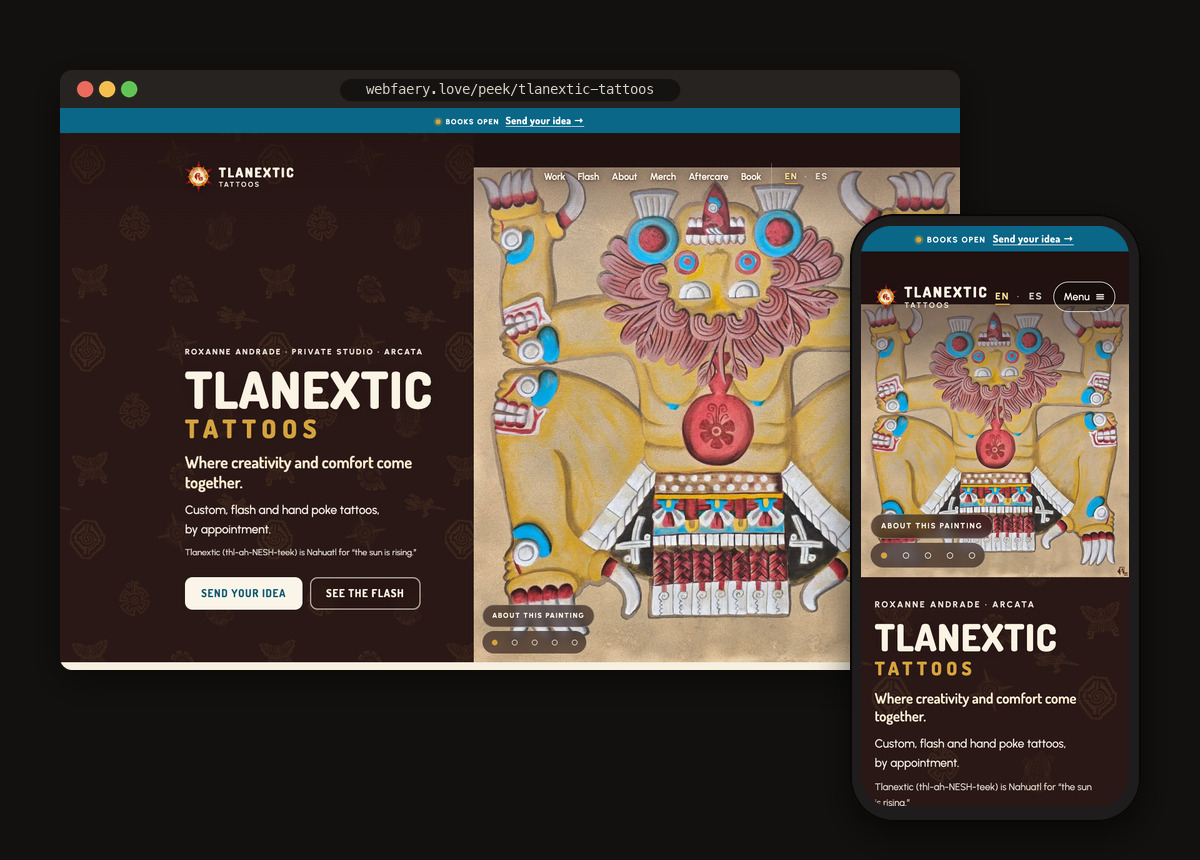
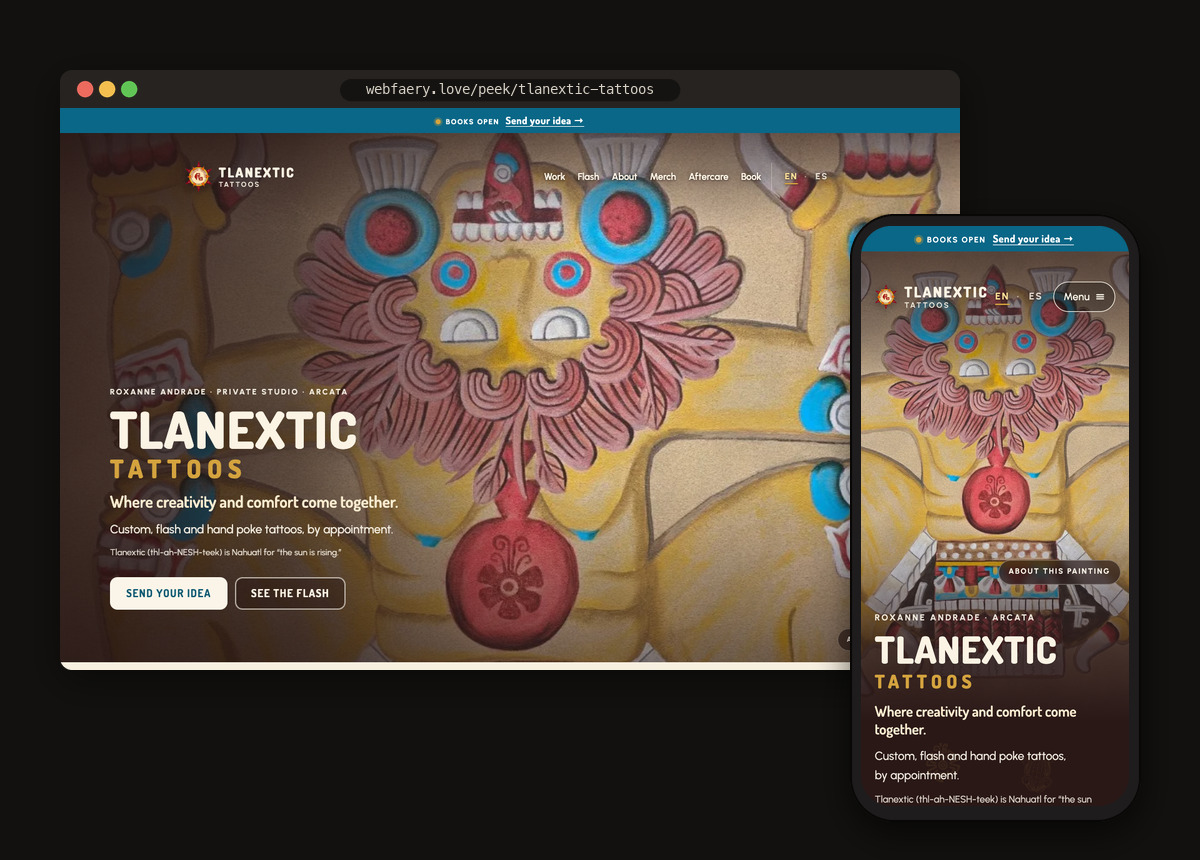
Tlanextic: painting fills the hero, rotation removed (Pollen's note)

diff --git a/peek/tlanextic-tattoos/index.html b/peek/tlanextic-tattoos/index.html
@@ -117,7 +117,7 @@
   .btn.quiet { background: transparent; color: var(--teal-deep); }
   .btn.quiet:hover { background: var(--ground-2); }
 
-  /* ---------- HERO: her own photo, drawing beside her Tlaltecuhtli painting ---------- */
+  /* ---------- HERO: her Tlaltecuhtli painting, full screen ---------- */
   header.top { display: flex; justify-content: space-between; align-items: center; gap: 14px; flex-wrap: wrap; padding-block: 44px 0; }
   .mark { display: inline-flex; align-items: center; gap: 10px; text-decoration: none; color: var(--on-band); }
   .mark img { width: 44px; height: auto; filter: drop-shadow(0 2px 6px rgba(0, 0, 0, 0.35)); }
@@ -127,22 +127,19 @@
   nav a { color: var(--on-band); text-decoration: none; padding: 10px 6px; line-height: 24px; font-weight: 600; text-shadow: 0 1px 3px rgba(30, 14, 12, 0.6), 0 0 14px rgba(30, 14, 12, 0.5); }
   nav a:hover { color: #f6dc95; }
 
-  /* HERO: her own tattoos, big, and each new one goes in dot by dot, like a hand poke. Words sit on dark paper printed with her flash */
+  /* HERO: her Tlaltecuhtli painting, full screen and edge to edge (Pollen's note, Oct 8). Her words sit on a soft dark wash over the painting */
   .hero-band { position: relative; overflow: hidden; min-height: 94vh; min-height: 94svh; display: flex; flex-direction: column; background: #2a1817; color: var(--on-band); }
   .hero-band > .gutter { position: relative; z-index: 3; }
   .hero-band::before { content: ""; position: absolute; inset: 0; z-index: 0; background: rgba(212, 163, 62, 0.1);
     -webkit-mask: url('images/art/pat-flash.webp') 0 0 / 300px 300px repeat; mask: url('images/art/pat-flash.webp') 0 0 / 300px 300px repeat; }
-  .hero-art { position: absolute; z-index: 1; top: 0; right: 0; bottom: 0; width: 54%; margin: 0; background: #1f1211; }
-  .hero-art img { position: absolute; inset: 0; width: 100%; height: 100%; object-fit: cover; object-position: var(--pos, 50% 50%); opacity: 0; }
-  .hero-art img.on { opacity: 1; }
-  @property --dot { syntax: '<length>'; inherits: false; initial-value: 0px; }
-  .hero-art img.poke { z-index: 1; -webkit-mask: radial-gradient(circle, #000 var(--dot), transparent calc(var(--dot) + 0.6px)) 50% 50% / 14px 14px; mask: radial-gradient(circle, #000 var(--dot), transparent calc(var(--dot) + 0.6px)) 50% 50% / 14px 14px; animation: poke-in 1.9s cubic-bezier(.5,0,.3,1) both; }
-  @keyframes poke-in { from { --dot: 0px; } to { --dot: 11px; } }
-  .hero-pick { position: absolute; z-index: 2; left: 14px; bottom: 14px; display: flex; gap: 2px; padding: 3px 4px; border-radius: 999px; background: rgba(34, 18, 16, 0.62); -webkit-backdrop-filter: blur(6px); backdrop-filter: blur(6px); }
-  /* her Tlaltecuhtli painting leads the hero: shown whole (her mark bottom right stays in), on the dark paper */
-  .hero-art img.hero-painting { object-fit: contain; object-position: 50% 100%; background-color: #1f1211; }
-  .hero-cap { position: absolute; z-index: 2; left: 14px; bottom: 56px; display: none; flex-direction: column-reverse; align-items: flex-start; gap: 8px; max-width: min(340px, calc(100% - 28px)); }
-  .hero-art.is-painting .hero-cap { display: flex; }
+  .hero-art { position: absolute; z-index: 1; inset: 0; width: 100%; margin: 0; background: #1f1211; }
+  /* cover, held near the top so her headdress, face and the red disc stay in frame on wide screens */
+  .hero-art img { position: absolute; inset: 0; width: 100%; height: 100%; object-fit: cover; object-position: 50% 9%; }
+  /* the wash: dark at the left and bottom where her name and buttons sit, clear over her face and the disc */
+  .hero-art::after { content: ""; position: absolute; inset: 0; pointer-events: none;
+    background: linear-gradient(90deg, rgba(34, 18, 16, 0.86) 0, rgba(34, 18, 16, 0.66) 26%, rgba(34, 18, 16, 0.2) 46%, rgba(34, 18, 16, 0) 58%),
+                linear-gradient(0deg, rgba(34, 18, 16, 0.55) 0, rgba(34, 18, 16, 0) 34%); }
+  .hero-cap { position: absolute; z-index: 2; right: 18px; bottom: 18px; display: flex; flex-direction: column-reverse; align-items: flex-end; gap: 8px; max-width: min(360px, calc(100% - 36px)); }
   .hero-cap-btn { min-height: 36px; margin: 0; padding: 0 14px; cursor: pointer; font: inherit; font-size: 11px; letter-spacing: 0.16em; text-transform: uppercase; font-weight: 700; color: #fbf5e9; background: rgba(34, 18, 16, 0.62); border: 1px solid rgba(251, 245, 233, 0.35); border-radius: 999px; -webkit-backdrop-filter: blur(6px); backdrop-filter: blur(6px); }
   .hero-cap-btn[aria-expanded="true"] { color: #f6dc95; border-color: #d4a33e; }
   .hero-cap-btn:focus-visible { outline: 2px solid #fbf5e9; outline-offset: 2px; }
@@ -151,24 +148,25 @@
   .hero-cap-txt a { color: #f4d68a; font-weight: 700; }
   .hero-cap-txt { position: relative; }
   .hero-cap-x { display: none; position: absolute; top: 2px; right: 2px; width: 40px; height: 40px; margin: 0; padding: 0; border: 0; background: none; color: #fbf5e9; font-size: 22px; line-height: 1; cursor: pointer; }
-  /* phones: the open caption sits low, over the skirt band, so her face and the red disc stay clear */
+  /* tall tablet screens: the painting runs behind more of the words, so the wash comes up from the bottom too */
+  @media (min-width: 761px) and (max-aspect-ratio: 1/1) {
+    .hero-art::after { background: linear-gradient(90deg, rgba(34, 18, 16, 0.7) 0, rgba(34, 18, 16, 0.3) 45%, rgba(34, 18, 16, 0) 70%), linear-gradient(0deg, rgba(34, 18, 16, 0.88) 0, rgba(34, 18, 16, 0.6) 32%, rgba(34, 18, 16, 0) 58%); }
+  }
+  /* phones: the button sits low on the painting, above her name; the open caption spans the painting with a close button */
   @media (max-width: 760px) {
-    .hero-art.cap-open .hero-pick, .hero-art.cap-open .hero-cap-btn { display: none; }
-    .hero-art.cap-open .hero-cap { left: 10px; right: 10px; bottom: 10px; max-width: none; }
+    .hero-cap { bottom: 198px; right: 12px; max-width: calc(100% - 24px); }  /* just above where her name rises onto the painting, under the red disc */
+    .hero-art.cap-open .hero-cap-btn { display: none; }
+    .hero-art.cap-open .hero-cap { left: 10px; right: 10px; max-width: none; }
     .hero-cap-txt { font-size: 13.5px; line-height: 1.45; padding: 10px 40px 11px 12px; }
     .hero-cap-txt b { font-size: 14px; }
     .hero-cap-x { display: block; }
   }
-  .hero-pick button { display: grid; place-items: center; width: 30px; height: 30px; padding: 0; margin: 0; border: 0; border-radius: 50%; background: none; cursor: pointer; color: #fbf5e9; }
-  .hero-pick button::before { content: ""; width: 9px; height: 9px; border-radius: 50%; border: 1.5px solid currentColor; box-sizing: border-box; }
-  .hero-pick button[aria-pressed="true"]::before { background: #d4a33e; border-color: #d4a33e; }
-  .hero-pick .hp-pause::before { display: none; }
-  .hero-pick button:focus-visible { outline: 2px solid #fbf5e9; outline-offset: -2px; }
   .hero-band::after { content: ""; position: absolute; inset: 0 0 auto; height: 150px; z-index: 2; pointer-events: none; background: linear-gradient(rgba(34, 18, 16, 0.62), rgba(34, 18, 16, 0)); }
   .hero-main { flex: 1; display: flex; align-items: flex-end; padding-block: 40px 84px; }
   .hero-copy { max-width: 600px; }
   @media (min-width: 761px) {
-    .hero-main { width: 46%; box-sizing: border-box; padding-left: max(20px, calc((100% - 1040px) / 2)); padding-right: 34px; }
+    .hero-main { box-sizing: border-box; padding-left: max(28px, calc((100% - 1040px) / 2 - 120px)); padding-right: 24px; }
+    .hero-copy { max-width: min(560px, 44vw); }
     .hero-main > .wrap { margin: 0; }
     .hero-band .hero-copy h1 { font-size: clamp(46px, 5.6vw, 84px); }
   }
@@ -198,7 +196,10 @@
 
   @media (max-width: 760px) {
     .hero-band { min-height: 0; }
-    .hero-art { position: relative; order: -1; left: auto; right: auto; width: 100%; bottom: auto; height: min(calc(100vw + 84px), 78svh); flex: none; }  /* the extra 84px is dark headroom so the sticky nav sits above her painting's headdress */
+    .hero-art { position: relative; order: -1; inset: auto; width: 100%; height: min(175vw, 86svh); flex: none; }  /* a tall band of the painting; her name rises onto its lower edge */
+    .hero-art img { object-position: 50% 30%; }
+    .hero-art::after { background: linear-gradient(0deg, #2a1817 0, rgba(42, 24, 23, 0.82) 16%, rgba(42, 24, 23, 0.35) 30%, rgba(42, 24, 23, 0) 42%); }
+    .hero-main { margin-top: -190px; }
     .hero-band > .gutter:first-of-type { position: absolute; top: 0; left: 0; right: 0; }
     .hero-band::after { height: 200px; background: linear-gradient(rgba(34, 18, 16, 0.72), rgba(34, 18, 16, 0.38) 60%, rgba(34, 18, 16, 0)); }
     .hero-main { padding-block: 30px 52px; }
@@ -785,16 +786,8 @@
 </header>
 </div>
 <div class="hero-band">
-  <figure class="hero-art is-painting" id="hero-art" aria-label="Art by Roxanne">
-    <img class="on hero-painting" src="images/hero-tlaltecuhtli.webp" width="1050" height="1069" alt="Her painting of Tlaltecuhtli, the spirit of the earth: a yellow figure with arms raised, a feathered red face, turquoise ear spools and a red disc at her center" fetchpriority="high">
-    <img data-src="images/w-butterflies.webp" width="1100" height="1100" alt="Two butterflies with small flowers in fine line and pepper shading, down a calf">
-    <img data-src="images/w-hummingbird.webp" width="1074" height="1075" alt="A hummingbird, huitzil, with spread wings under leaves, in black and gray">
-    <img data-src="images/w-cempasuchil.webp" width="1100" height="1098" alt="A cempasuchil held by a skeleton hand, her favorite flower, in black and gray">
-    <img data-src="images/w-eye-hand.webp" width="1100" height="825" alt="A custom hand tattoo with an eye on the back of the hand" style="--pos:50% 40%">
-    <div class="hero-pick" role="group" aria-label="Choose a tattoo">
-      <button type="button" aria-pressed="true" aria-label="Tlaltecuhtli painting"></button><button type="button" aria-pressed="false" aria-label="Butterflies"></button><button type="button" aria-pressed="false" aria-label="Hummingbird"></button><button type="button" aria-pressed="false" aria-label="Cempasuchil"></button><button type="button" aria-pressed="false" aria-label="Eye hand"></button>
-      <button type="button" class="hp-pause" aria-label="Pause the photos" aria-pressed="false"><svg width="12" height="12" viewBox="0 0 12 12" aria-hidden="true" fill="currentColor"><rect class="ic-pause" x="2" y="1.5" width="2.8" height="9" rx="0.8"/><rect class="ic-pause" x="7.2" y="1.5" width="2.8" height="9" rx="0.8"/><path class="ic-play" d="M3 1.5v9l7.5-4.5z" style="display:none"/></svg></button>
-    </div>
+  <figure class="hero-art" id="hero-art" aria-label="Art by Roxanne">
+    <img src="images/hero-tlaltecuhtli.webp" width="1050" height="1069" alt="Her painting of Tlaltecuhtli, the spirit of the earth: a yellow figure with arms raised, a feathered red face, turquoise ear spools and a red disc at her center" fetchpriority="high">
     <div class="hero-cap">
       <button type="button" class="hero-cap-btn" id="hero-cap-btn" aria-expanded="false" aria-controls="hero-cap-txt">About this painting</button>
       <p class="hero-cap-txt" id="hero-cap-txt" hidden><button type="button" class="hero-cap-x" id="hero-cap-x" aria-label="Close">&times;</button><b>Tlaltecuhtli, painting by Roxanne</b> <span>Tlaltecuhtli is the spirit of the earth. In the old story, the gods made the world on her back: her hair became trees, flowers and grasses, and her eyes became wells and springs.</span> <a href="#tlaltecuhtli">Her story</a></p>
@@ -829,42 +822,15 @@
     var im = new Image(); im.onload = go; im.onerror = go; im.src = 'images/hero-tlaltecuhtli.webp'; if (im.complete) go(); setTimeout(go, 1500);
   })();
 
-  /* the hero's tattoos: every 6 seconds the next one goes in dot by dot. Tap a dot to choose one, or pause.
-     Still for people who turn off motion (the dots still switch photos), and only runs while the hero is on screen. */
+  /* "About this painting": opens and closes her caption over the hero */
   (function () {
-    var art = document.getElementById('hero-art'); if (!art) return;
-    var imgs = [].slice.call(art.querySelectorAll('img')), pick = [].slice.call(art.querySelectorAll('.hero-pick button:not(.hp-pause)')), pause = art.querySelector('.hp-pause');
-    var still = window.matchMedia && window.matchMedia('(prefers-reduced-motion: reduce)').matches, i = 0, paused = still, onScreen = true, t = null;
-    function load() { imgs.forEach(function (im) { if (im.dataset.src) { im.src = im.dataset.src; im.removeAttribute('data-src'); } }); }
-    if (document.readyState === 'complete') setTimeout(load, 600); else window.addEventListener('load', function () { setTimeout(load, 600); });
-    function show(n) {
-      if (n === i) return; var prev = imgs[i], next = imgs[n];
-      if (next.dataset.src) load();
-      i = n; pick.forEach(function (b, k) { b.setAttribute('aria-pressed', k === n ? 'true' : 'false'); });
-      art.classList.toggle('is-painting', n === 0); if (n !== 0) capOpen(false);
-      imgs.forEach(function (im) { im.classList.remove('poke'); if (im !== prev) im.classList.remove('on'); });
-      next.classList.add('on');
-      if (still) { prev.classList.remove('on'); return; }
-      void next.offsetWidth; next.classList.add('poke');
-      next.addEventListener('animationend', function done() { next.removeEventListener('animationend', done); if (imgs[i] === next) { prev.classList.remove('on'); next.classList.remove('poke'); } });
-    }
-    var capB = document.getElementById('hero-cap-btn'), capT = document.getElementById('hero-cap-txt');
+    var art = document.getElementById('hero-art'), capB = document.getElementById('hero-cap-btn'), capT = document.getElementById('hero-cap-txt'), capX = document.getElementById('hero-cap-x');
+    if (!art || !capB || !capT) return;
     function quietFocusB(el) { try { el.focus({ preventScroll: true }); } catch (e) {} }
-    function capOpen(o) { if (!capB) return; capT.hidden = !o; capB.setAttribute('aria-expanded', o ? 'true' : 'false'); art.classList.toggle('cap-open', o); }
-    if (capB) capB.addEventListener('click', function () { capOpen(capT.hidden); if (!capT.hidden && !capB.offsetParent) quietFocusB(document.getElementById('hero-cap-x')); });
-    var capX = document.getElementById('hero-cap-x'); if (capX) capX.addEventListener('click', function () { capOpen(false); quietFocusB(capB); });
-    art.addEventListener('keydown', function (e) { if (e.key === 'Escape' && capT && !capT.hidden) { capOpen(false); capB.focus(); } });
-    function tick() { if (paused || art.classList.contains('cap-open') || !onScreen || document.hidden) return; var n = (i + 1) % imgs.length; if (imgs[n].complete && imgs[n].naturalWidth) show(n); }
-    function start() { clearInterval(t); if (!paused) t = setInterval(tick, 6000); }
-    pick.forEach(function (b, k) { b.addEventListener('click', function () { show(k); start(); }); });
-    function paintPause() {
-      pause.setAttribute('aria-pressed', paused ? 'true' : 'false');
-      pause.querySelector('.ic-play').style.display = paused ? '' : 'none'; [].forEach.call(pause.querySelectorAll('.ic-pause'), function (r) { r.style.display = paused ? 'none' : ''; });
-    }
-    if (still) pause.hidden = true;
-    pause.addEventListener('click', function () { paused = !paused; paintPause(); start(); });
-    if ('IntersectionObserver' in window) new IntersectionObserver(function (es) { onScreen = es[0].isIntersecting; }).observe(art);
-    paintPause(); start();
+    function capOpen(o) { capT.hidden = !o; capB.setAttribute('aria-expanded', o ? 'true' : 'false'); art.classList.toggle('cap-open', o); }
+    capB.addEventListener('click', function () { capOpen(capT.hidden); if (!capT.hidden && !capB.offsetParent && capX) quietFocusB(capX); });
+    if (capX) capX.addEventListener('click', function () { capOpen(false); quietFocusB(capB); });
+    art.addEventListener('keydown', function (e) { if (e.key === 'Escape' && !capT.hidden) { capOpen(false); capB.focus(); } });
   })();
 </script>
 
@@ -1858,7 +1824,7 @@
   (function () {
     var D = {
       'Close': 'Cerrar',
-      'Art by Roxanne': 'Arte de Roxanne', 'Tlaltecuhtli painting': 'Pintura de Tlaltecuhtli', 'About this painting': 'Sobre esta pintura',
+      'Art by Roxanne': 'Arte de Roxanne', 'About this painting': 'Sobre esta pintura',
       'Her painting of Tlaltecuhtli, the spirit of the earth: a yellow figure with arms raised, a feathered red face, turquoise ear spools and a red disc at her center': 'Su pintura de Tlaltecuhtli, el espíritu de la tierra: una figura amarilla con los brazos en alto, un rostro rojo de plumas, orejeras turquesa y un disco rojo en su centro',
       'Tlaltecuhtli, painting by Roxanne': 'Tlaltecuhtli, pintura de Roxanne',
       'Tlaltecuhtli is the spirit of the earth. In the old story, the gods made the world on her back: her hair became trees, flowers and grasses, and her eyes became wells and springs.': 'Tlaltecuhtli es el espíritu de la tierra. En la historia antigua, los dioses hicieron el mundo sobre su espalda: su cabello se volvió árboles, flores y pastos, y sus ojos se volvieron pozos y manantiales.',
@@ -1989,8 +1955,7 @@
       /* the sun rises */
       'The sun is rising.': 'El sol está saliendo.', 'Tap anywhere to come back': 'Toca donde sea para volver',
       /* labels, alt text and screen reader words */
-      'Tattoos by Roxanne': 'Tatuajes de Roxanne', 'Choose a tattoo': 'Elige un tatuaje',
-      'Butterflies': 'Mariposas', 'Hummingbird': 'Colibrí', 'Cempasuchil': 'Cempasúchil', 'Eye hand': 'Ojo en la mano', 'Pause the photos': 'Pausar las fotos',
+      'Tattoos by Roxanne': 'Tatuajes de Roxanne',
       'Sections': 'Secciones', 'Styles Roxanne loves doing': 'Estilos que a Roxanne le encanta hacer',
       'A cempasuchil, a marigold, appearing one dot at a time, like a hand poke tattoo': 'Un cempasúchil que aparece punto por punto, como un tatuaje hand poke',
       'Steps, tap one you have done to go back': 'Pasos, toca uno que ya hiciste para regresar',
